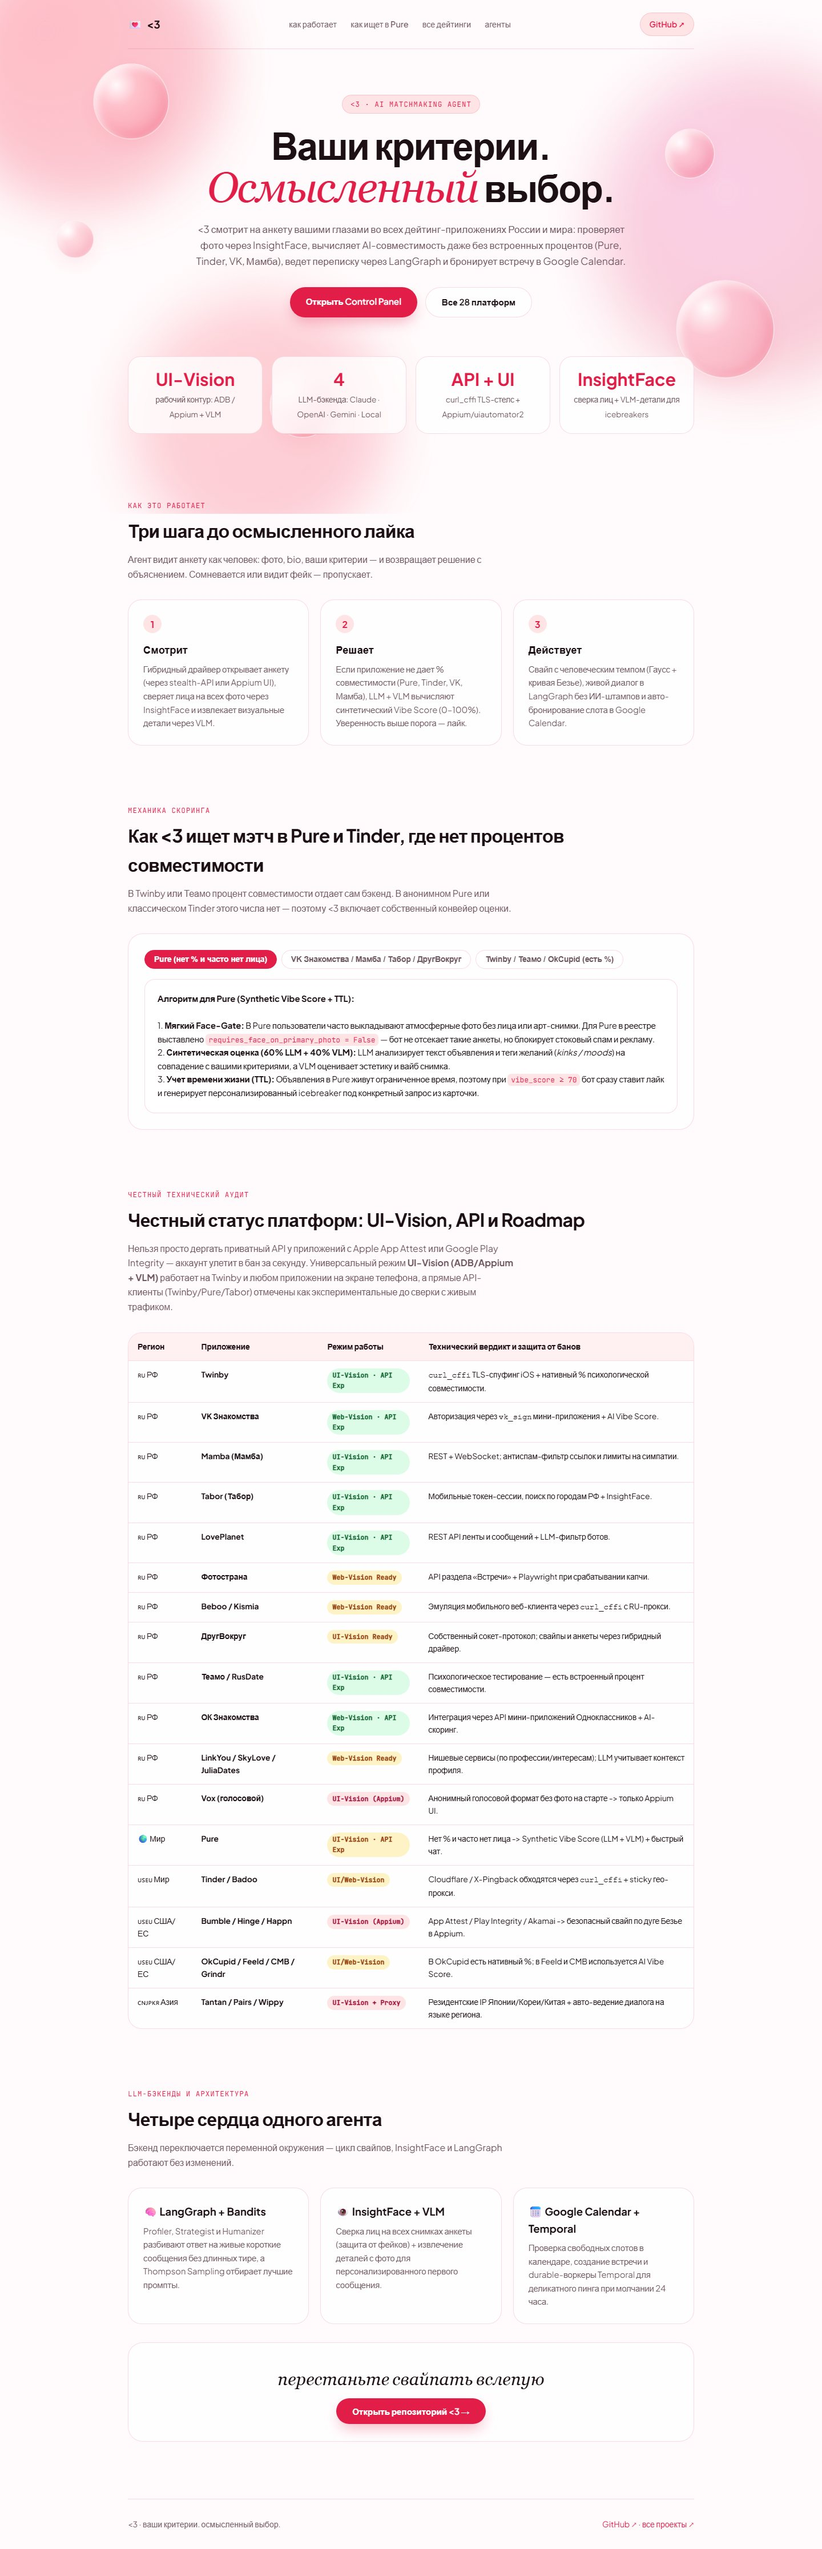
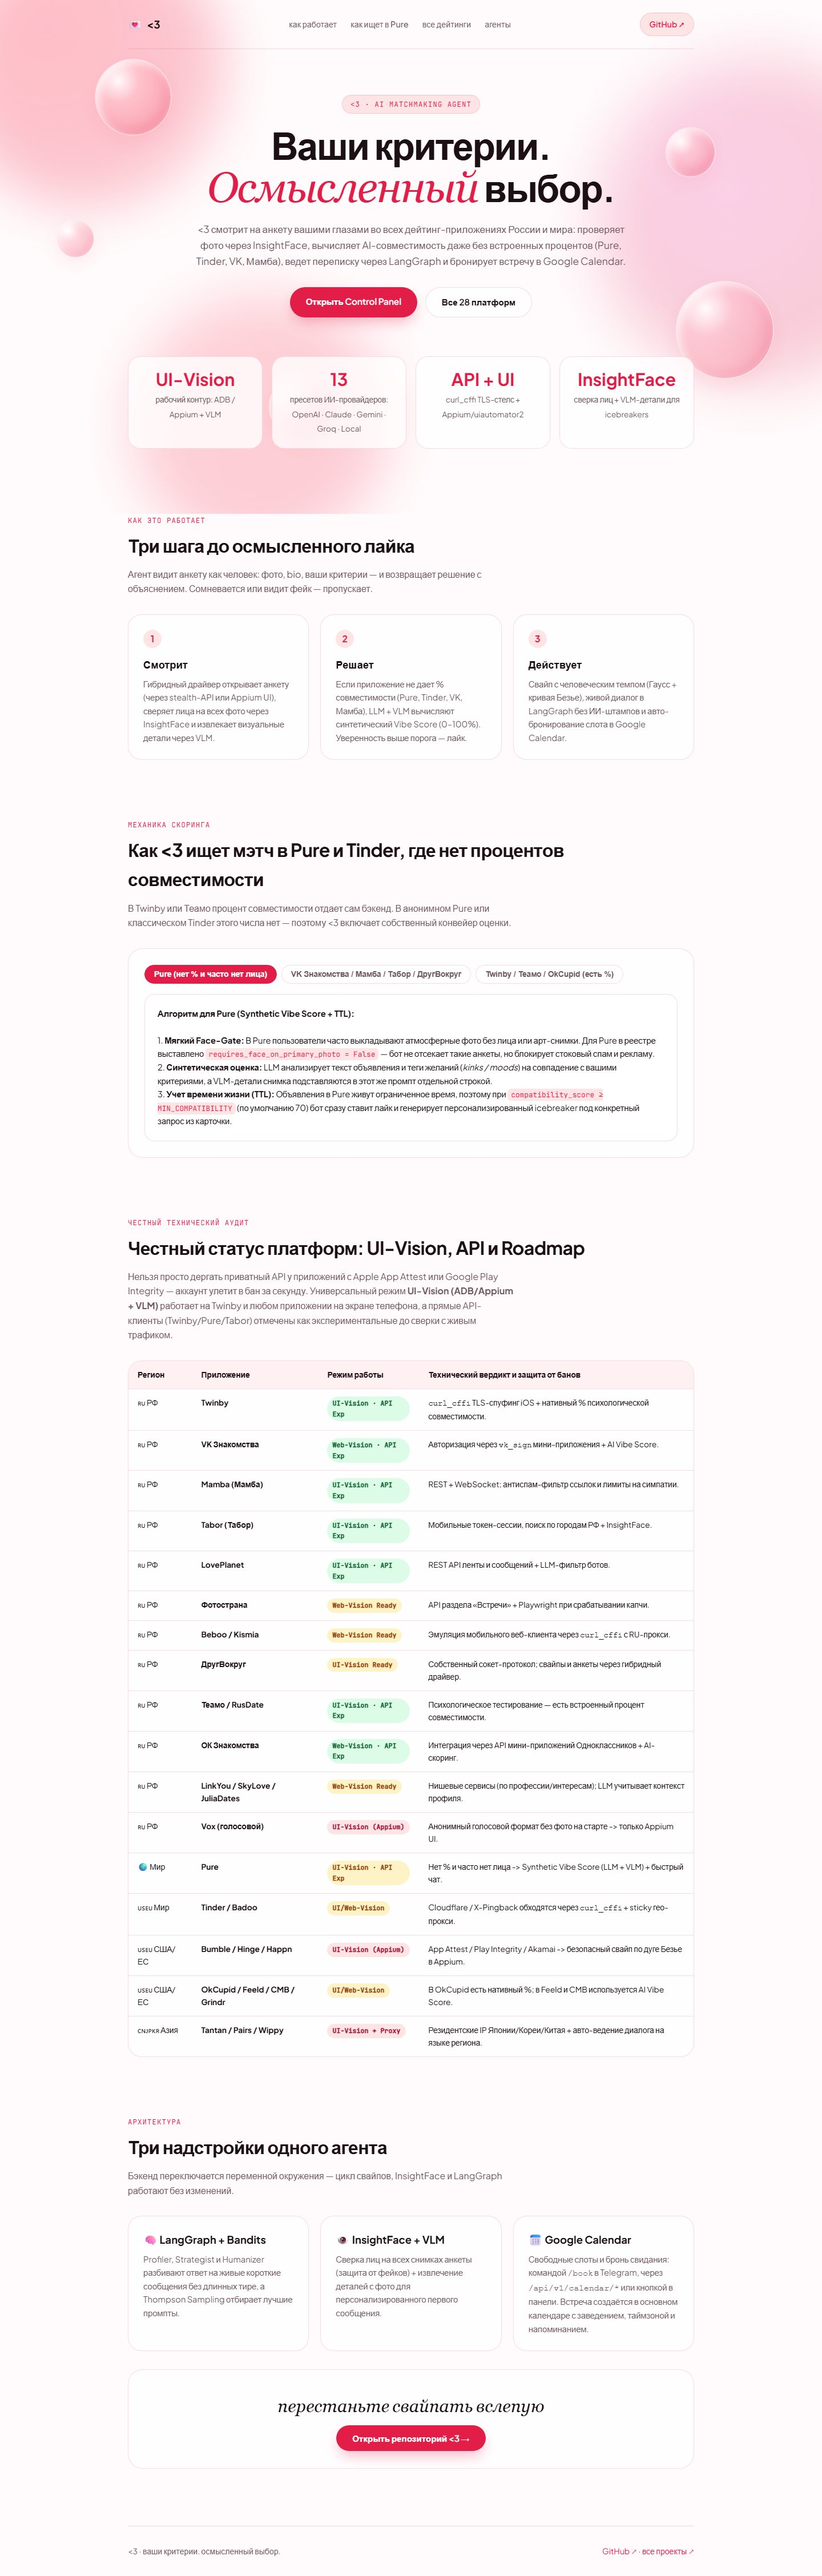
fix: лендинг больше не обещает четыре бэкенда там, где три модуля
Заголовок «Четыре сердца одного агента» висел над grid-3 из LangGraph+Bandits, InsightFace+VLM и
Google Calendar: ни четырёх, ни бэкендов в нём нет (их 13 пресетов). Секция переименована в
«Архитектура / Три надстройки одного агента», обе копии лендинга обновлены байт-в-байт,
docs/screenshots/landing.jpg переснят с живой страницы (1440×4512, шрифты догружены,
переключалка режимов проверена кликом).

diff --git a/index.html b/index.html
@@ -463,8 +463,8 @@
     </section>
 
     <section id="agents">
-      <div class="sec-eyebrow">LLM-бэкенды и архитектура</div>
-      <h2>Четыре сердца одного агента</h2>
+      <div class="sec-eyebrow">Архитектура</div>
+      <h2>Три надстройки одного агента</h2>
       <p class="sec-sub">Бэкенд переключается переменной окружения — цикл свайпов, InsightFace и LangGraph работают без изменений.</p>
       <div class="grid-3">
         <div class="card">

diff --git a/web/static/index.html b/web/static/index.html
@@ -463,8 +463,8 @@
     </section>
 
     <section id="agents">
-      <div class="sec-eyebrow">LLM-бэкенды и архитектура</div>
-      <h2>Четыре сердца одного агента</h2>
+      <div class="sec-eyebrow">Архитектура</div>
+      <h2>Три надстройки одного агента</h2>
       <p class="sec-sub">Бэкенд переключается переменной окружения — цикл свайпов, InsightFace и LangGraph работают без изменений.</p>
       <div class="grid-3">
         <div class="card">
